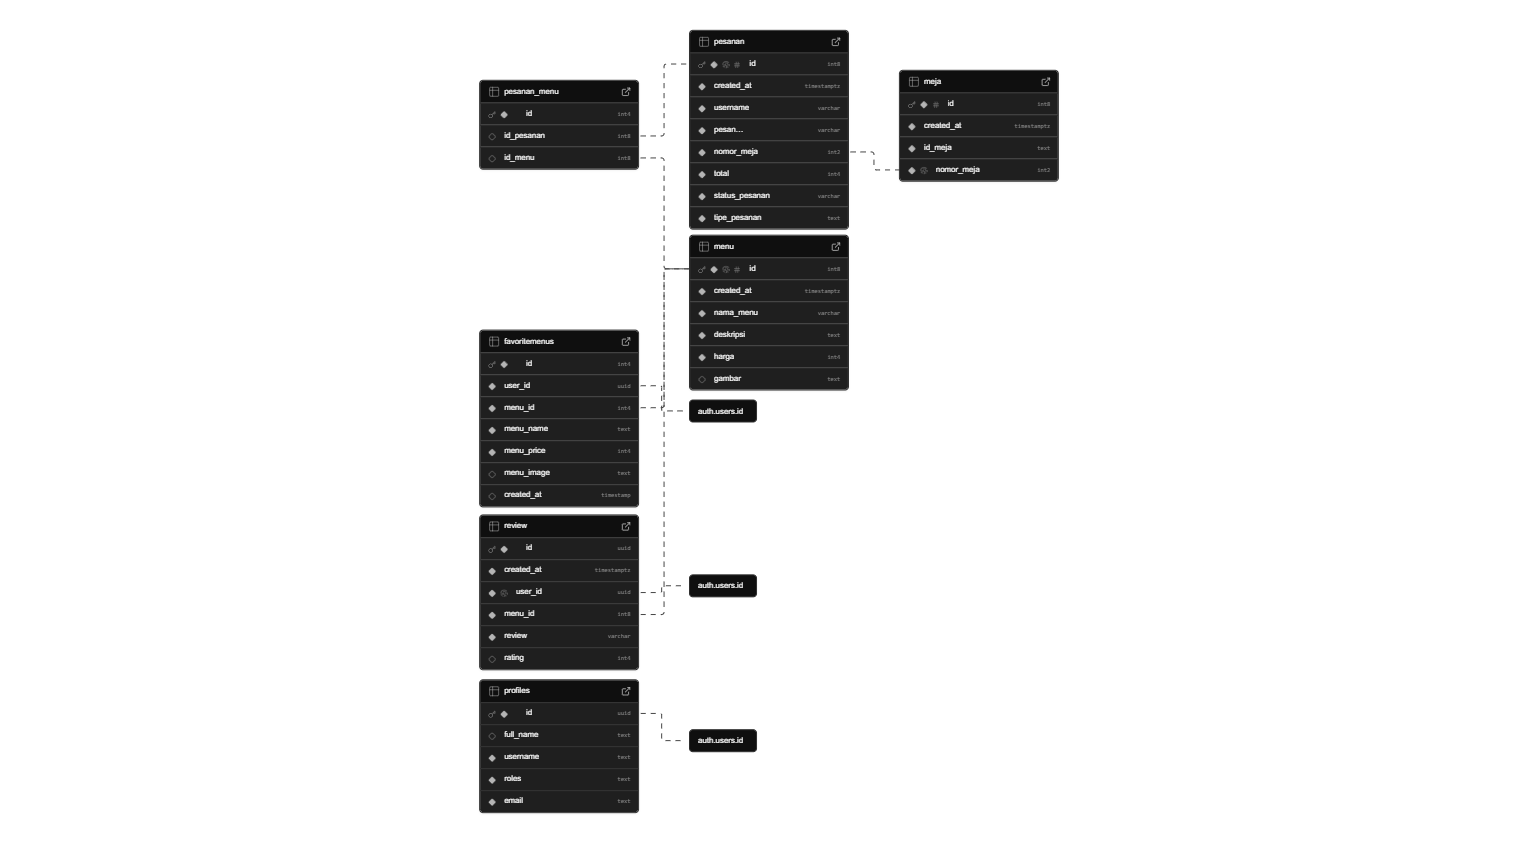
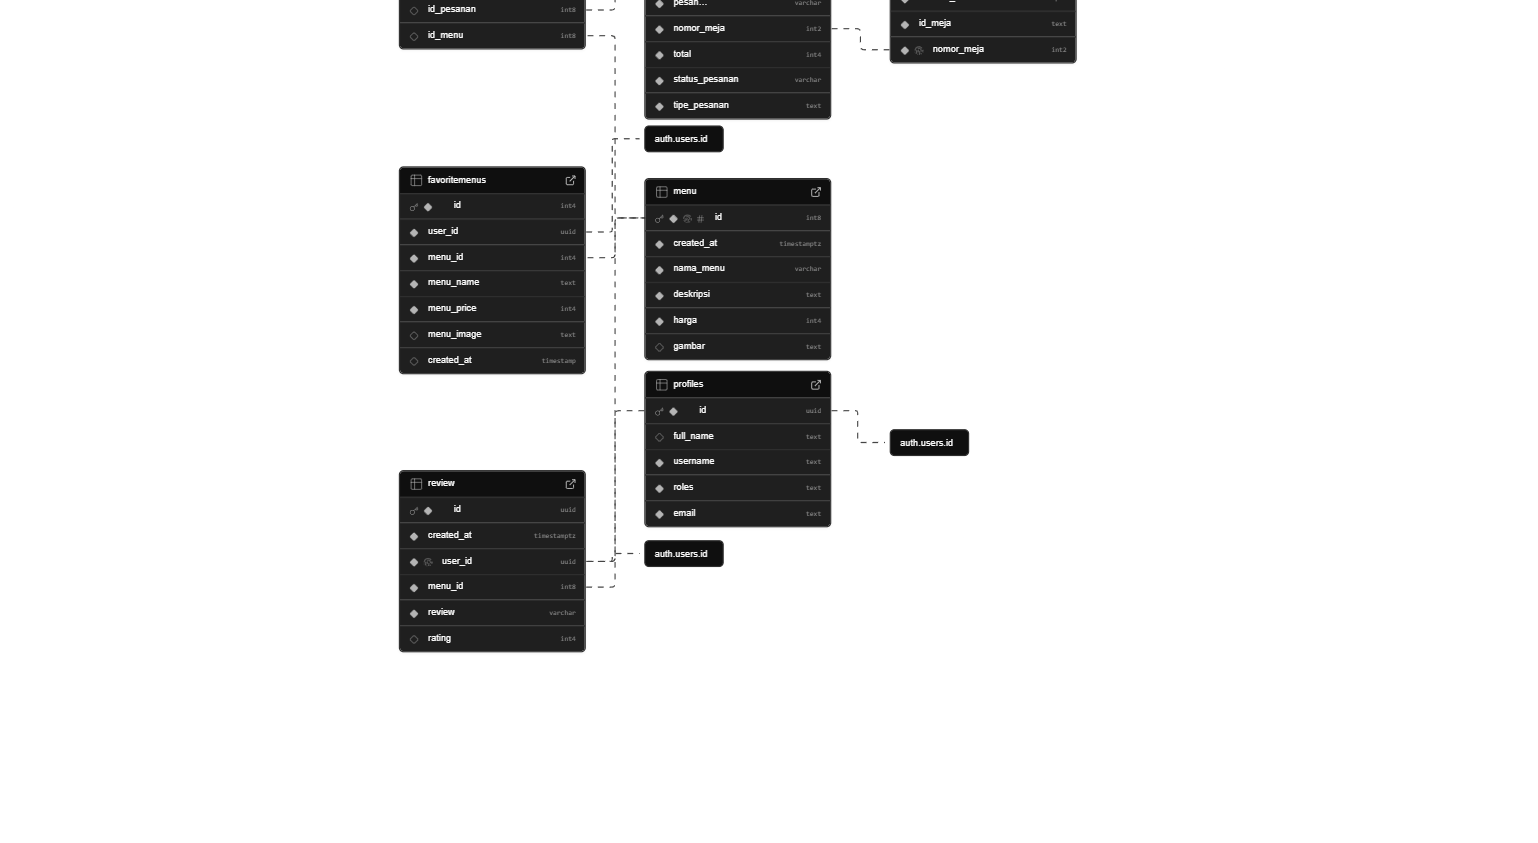
EMPTY COKKKKKK

Changed region(s): [[0.2497, 0.0, 0.7178, 0.987]]

diff --git a/lib/pages/customer/reviews.dart b/lib/pages/customer/reviews.dart
@@ -77,7 +77,7 @@ class _ReviewsPageState extends State<ReviewsPage> {
               roles
             ),
             menu_id (
-              id_menu,
+              id,
               nama_menu,
               gambar
             )
@@ -96,7 +96,7 @@ class _ReviewsPageState extends State<ReviewsPage> {
         }
 
         if (item['menu_id'] != null) {
-          int menuId = item['menu_id']['id_menu'];
+          int menuId = item['menu_id']['id'];
           menuData[menuId.toString()] = item['menu_id'];
         }
         processedReviews.add(item);
@@ -986,8 +986,8 @@ class _ReviewsPageState extends State<ReviewsPage> {
                   borderRadius: BorderRadius.circular(8),
                   child: Image.network(
                     menuImage,
-                    height: 120,
-                    width: double.infinity,
+                    height: 200,
+                    width: 220,
                     fit: BoxFit.cover,
                     errorBuilder: (context, error, stackTrace) {
                       return Container(

diff --git a/lib/pages/customer/myReviewPage.dart b/lib/pages/customer/myReviewPage.dart
@@ -284,7 +284,7 @@ class _MyReviewsPageState extends State<myReviewsPage> {
           await supabase.from('review').insert({
             'user_id': currentUser.id,
             'menu_id': menuId,
-            'review': _reviewControllers,
+            'review': reviewText,
             'rating': rating,
           });
         }